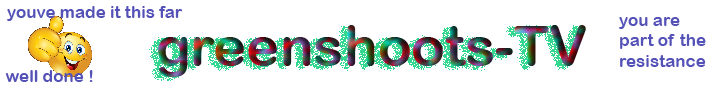
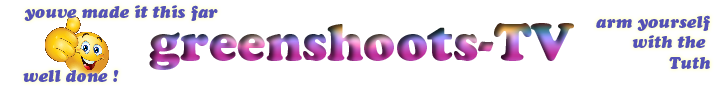
x

diff --git a/index.html b/index.html
@@ -28,13 +28,14 @@
         <li><a href="contact.html">CONTACT</a></li>
       </ul>
     </nav>
-      
-<div align="center">
- <marquee behavior="alternate" bgcolor="#EAFFF7" direction="left" height:="" 
- loop="7" scrollamount="56" scrolldelay="2" width="100%">
- <span style="font-size: 20px;color:#FFFFFF">
-<img  src="images/gsTV_Banner_728x89.png" width="100%" height="85" alt=""/></td></span></marquee>
+
+<div class="banner">
+  
+<marquee behavior="scroll" direction="up" scrollamount="1"><img  src="images/gsTV_Banner_728x89.png" width="100%" height="84" alt=""/>
+
+</marquee>
 </div>
+
       
   </header>
     

diff --git a/css/index.css b/css/index.css
@@ -535,3 +535,9 @@ nav ul li {
   font-size: 17px;
 }
 
+/* Logo-Big */
+
+#.logo-big {
+background-color: #2D9AB7;
+
+}
